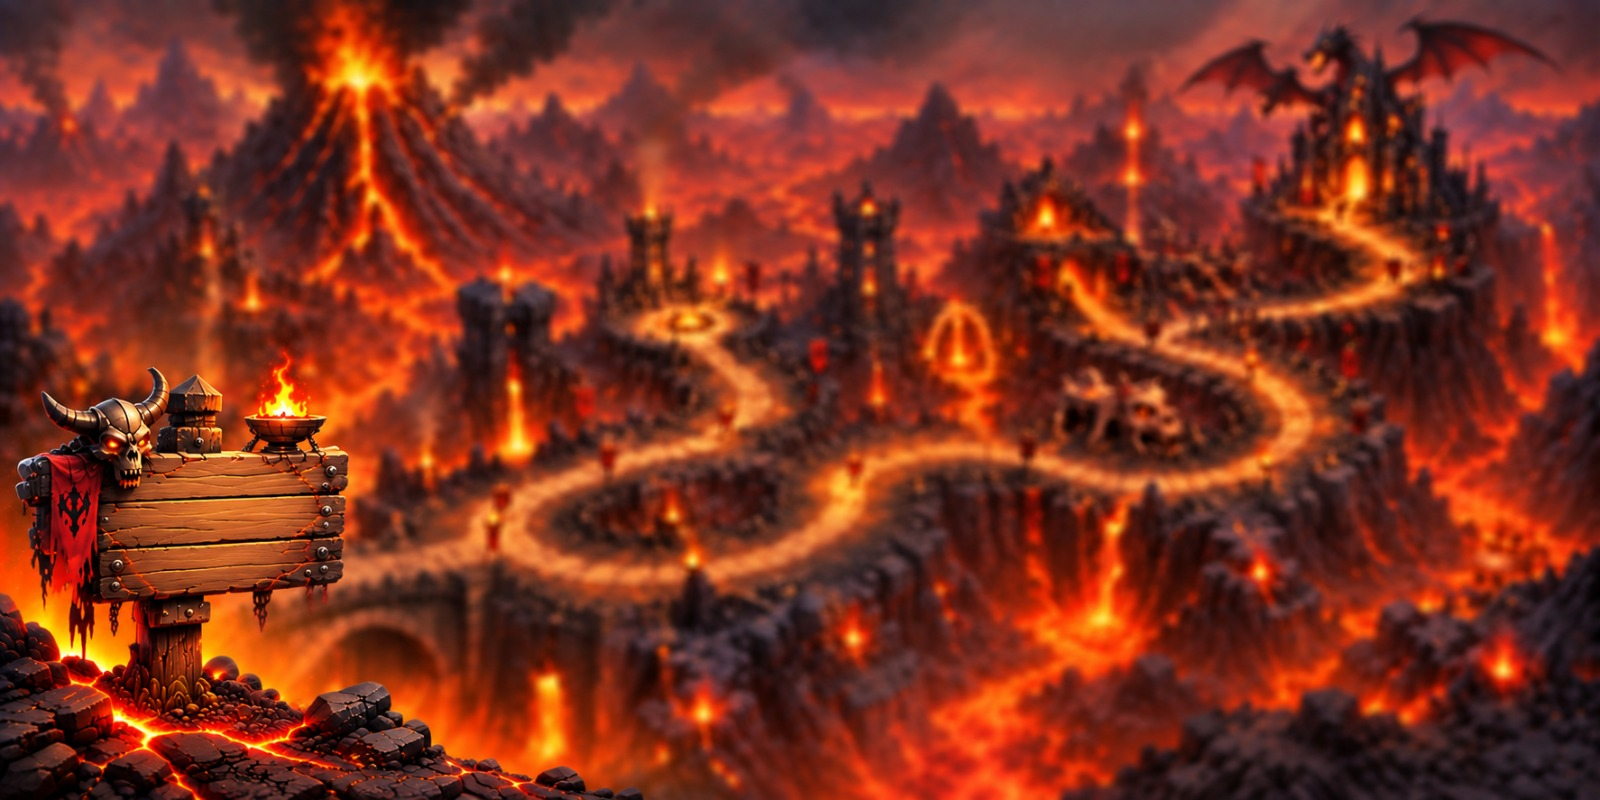
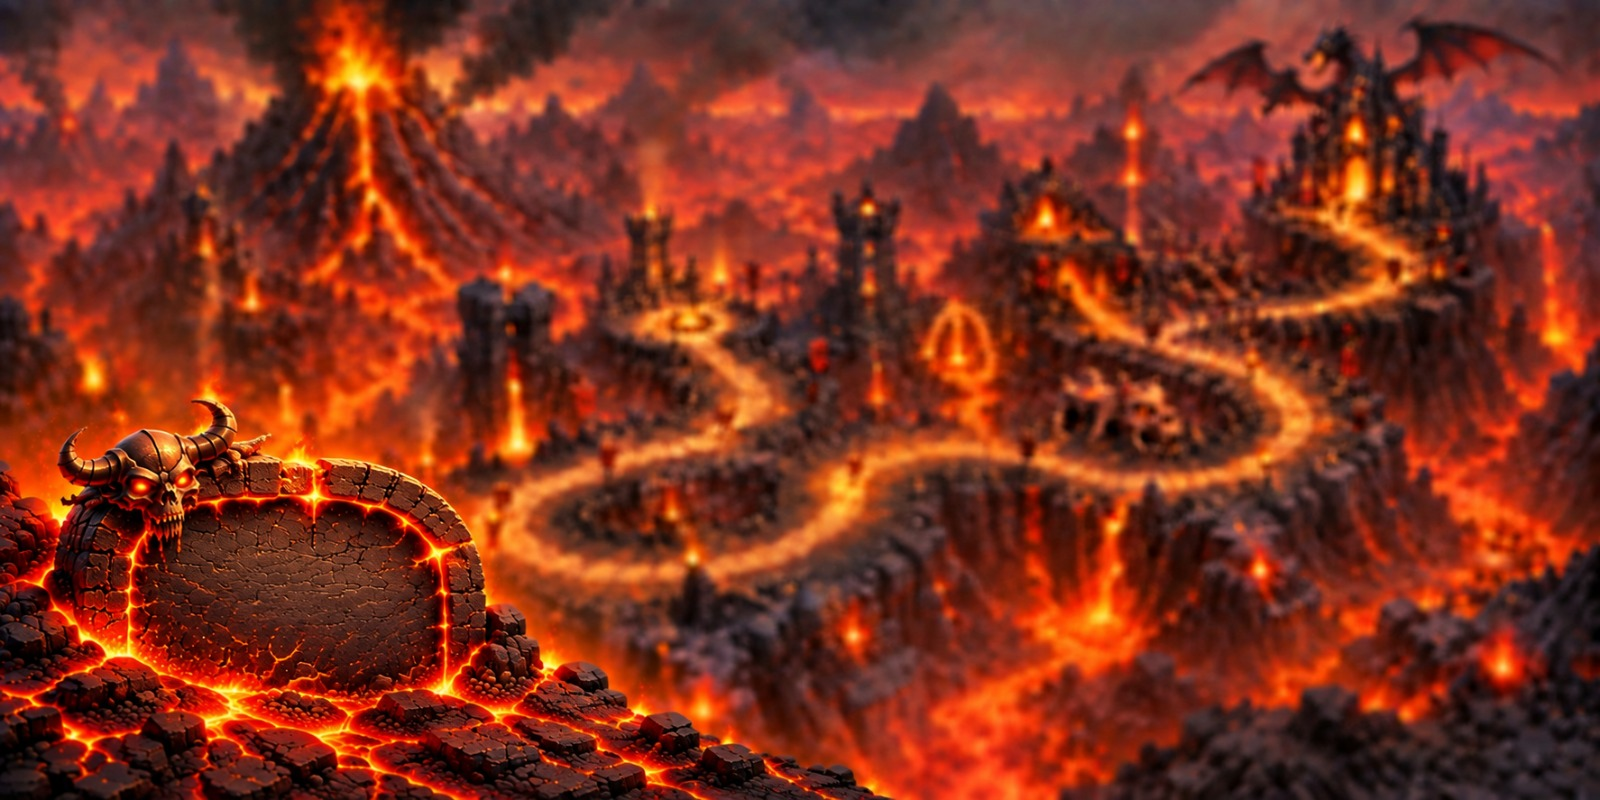
update the design

diff --git a/src/runtime/backdrop/SceneBackdrop.css b/src/runtime/backdrop/SceneBackdrop.css
@@ -173,11 +173,17 @@
     0px -1px 0px rgba(0, 0, 0, 0.2);
 }
 
-/* ❄ Specific alignment override strictly for Winter Season wooden sign ❄ */
+/* ❄ Specific alignment override for Winter Season ❄ */
+.runtime-shell[data-season-name="Winter Season"] .scene-backdrop-content {
+  margin-left: calc(50% - 370px) !important;
+  margin-right: auto !important;
+}
+
 .runtime-shell[data-season-name="Winter Season"] .screen-progress-widget {
-  left: clamp(48px, 6.2vw, 85px);
-  bottom: clamp(205px, 26vh, 245px);
+  left: clamp(40px, 5.2vw, 75px) !important;
+  bottom: clamp(210px, 26.5vh, 250px) !important;
   gap: 4px;
+  z-index: 150 !important;
 }
 
 .runtime-shell[data-season-name="Winter Season"] .screen-progress-board-top {
@@ -212,10 +218,16 @@
 }
 
 /* 🌸 Specific alignment override for Spring Season 🌸 */
+.runtime-shell[data-season-name="Spring Season"] .scene-backdrop-content {
+  margin-left: calc(50% - 375px) !important;
+  margin-right: auto !important;
+}
+
 .runtime-shell[data-season-name="Spring Season"] .screen-progress-widget {
-  left: clamp(42px, 5.5vw, 75px);
-  bottom: clamp(170px, 21.5vh, 198px);
+  left: clamp(35px, 4.5vw, 68px) !important;
+  bottom: clamp(175px, 22vh, 205px) !important;
   gap: 2px;
+  z-index: 150 !important;
 }
 
 .runtime-shell[data-season-name="Spring Season"] .screen-progress-board-top {
@@ -250,10 +262,16 @@
 }
 
 /* 🏜 Specific alignment override for Desert Season 🏜 */
+.runtime-shell[data-season-name="Desert Season"] .scene-backdrop-content {
+  margin-left: calc(50% - 365px) !important;
+  margin-right: auto !important;
+}
+
 .runtime-shell[data-season-name="Desert Season"] .screen-progress-widget {
-  left: clamp(48px, 6.2vw, 85px);
-  bottom: clamp(160px, 20vh, 185px);
+  left: clamp(35px, 4.5vw, 68px) !important;
+  bottom: clamp(165px, 21vh, 195px) !important;
   gap: 2px;
+  z-index: 150 !important;
 }
 
 .runtime-shell[data-season-name="Desert Season"] .screen-progress-board-top {
@@ -287,11 +305,68 @@
      0px 2px 4px rgba(0, 0, 0, 0.3);
 }
 
-/* 🌊 Specific alignment override for Marine Season 🌊 */
-.runtime-shell[data-season-name="Marine Season"] .screen-progress-widget {
-  left: clamp(45px, 5.8vw, 78px);
-  bottom: clamp(165px, 20.5vh, 190px);
+/* 🌋 Specific alignment override for Lava Season 🌋 */
+.runtime-shell[data-season-name="Lava Season"] .scene-backdrop-content {
+  margin-left: calc(50% - 370px) !important;
+  margin-right: auto !important;
+}
+
+.runtime-shell[data-season-name="Lava Season"] .screen-progress-widget {
+  left: clamp(40px, 5.0vw, 75px) !important;
+  bottom: clamp(170px, 22vh, 205px) !important;
   gap: 2px;
+  z-index: 150 !important;
+}
+
+.runtime-shell[data-season-name="Lava Season"] .screen-progress-board-top {
+  height: 22px;
+}
+
+.runtime-shell[data-season-name="Lava Season"] .screen-progress-board-bottom {
+  height: 24px;
+  margin-top: 0;
+}
+
+.runtime-shell[data-season-name="Lava Season"] .screen-progress-board-top .screen-label {
+  font-size: 16px;
+  color: #fff !important;
+  text-shadow: 
+    -1px -1px 0 #000,  
+     1px -1px 0 #000,
+    -1px  1px 0 #000,
+     1px  1px 0 #000;
+}
+
+.runtime-shell[data-season-name="Lava Season"] .screen-progress-board-bottom .screen-count {
+  font-size: 20px;
+  color: #fff !important;
+  text-shadow: 
+    -1px -1px 0 #000,  
+     1px -1px 0 #000,
+    -1px  1px 0 #000,
+     1px  1px 0 #000;
+}
+
+/* 🌊 Specific alignment override for Marine Season 🌊 */
+.runtime-shell[data-season-name="Marine Season"] .scene-content-area {
+  padding: 1.5rem 1.5rem 6.5rem 1.5rem !important;
+  display: flex !important;
+  justify-content: center !important;
+  align-items: center !important;
+}
+
+.runtime-shell[data-season-name="Marine Season"] .scene-backdrop-content {
+  width: 100% !important;
+  max-width: 840px !important;
+  margin-left: auto !important;
+  margin-right: auto !important;
+}
+
+.runtime-shell[data-season-name="Marine Season"] .screen-progress-widget {
+  left: clamp(35px, 4.5vw, 65px) !important;
+  bottom: clamp(190px, 24vh, 230px) !important;
+  gap: 2px;
+  z-index: 150 !important;
 }
 
 .runtime-shell[data-season-name="Marine Season"] .screen-progress-board-top {

diff --git a/src/runtime/rendering/blocks/reading/ImageBlock.jsx b/src/runtime/rendering/blocks/reading/ImageBlock.jsx
@@ -1,9 +1,21 @@
+import { useState, useEffect } from "react";
 import BlockCard from "../../../ui/components/BlockCard";
 import BlockHeader from "../../../ui/components/BlockHeader";
+import { resolveMediaUrl } from "../../services/MediaResolver";
+import defaultImageFallback from "../../../../assets/images/reading_boy_magnifying.png";
 
 function ImageBlock({ block }) {
-    const { url, caption } = block.content;
-    const jsonStyles = block.styles || {};
+    const content = block?.content || {};
+    const { caption } = content;
+    const jsonStyles = block?.styles || {};
+
+    const resolvedUrl = resolveMediaUrl(content);
+    const [imgSrc, setImgSrc] = useState(resolvedUrl || defaultImageFallback);
+
+    useEffect(() => {
+        const url = resolveMediaUrl(block?.content);
+        setImgSrc(url || defaultImageFallback);
+    }, [block]);
 
     const cardStyle = {
         width: "100%",
@@ -19,15 +31,20 @@ function ImageBlock({ block }) {
                 type="image"
                 title="Image"
             />
-            <div className="elab-media-card-content" style={{ display: "flex", flexDirection: "column", alignItems: "center", width: "100%", overflow: "hidden" }}>
+            <div className="elab-media-card-content" style={{ display: "flex", flexDirection: "column", alignItems: "center", width: "100%", padding: "12px 16px 20px", overflow: "hidden" }}>
                 <img
-                    src={url || null}
-                    alt={caption || "Content Image"}
+                    src={imgSrc}
+                    alt={caption || "Lesson Content Image"}
+                    onError={() => {
+                        if (imgSrc !== defaultImageFallback) {
+                            setImgSrc(defaultImageFallback);
+                        }
+                    }}
                     className="elab-media-card-element"
-                    style={{ width: "100%", maxWidth: "100%", height: "auto", borderRadius: "12px", objectFit: "contain" }}
+                    style={{ width: "100%", maxWidth: "100%", maxHeight: "320px", borderRadius: "12px", objectFit: "contain", display: "block" }}
                 />
                 {caption && (
-                    <p className="elab-media-card-caption">{caption}</p>
+                    <p className="elab-media-card-caption" style={{ marginTop: "12px", marginBottom: "6px", textAlign: "center", fontWeight: "700" }}>{caption}</p>
                 )}
             </div>
         </BlockCard>

diff --git a/src/runtime/rendering/services/MediaResolver.js b/src/runtime/rendering/services/MediaResolver.js
@@ -1,0 +1,64 @@
+/**
+ * MediaResolver.js
+ * Utility to resolve relative or absolute media URLs from JSON block content or strings.
+ * Handles paths starting with /media/ by prefixing the Django backend URL (default http://localhost:8000).
+ * Preserves frontend local asset imports (e.g. /src/runtime/samples/...) without prepending backend URL.
+ */
+
+const BACKEND_URL = (typeof import.meta !== "undefined" && import.meta.env && import.meta.env.VITE_API_URL)
+    || "http://localhost:8000";
+
+export function resolveMediaUrl(contentOrUrl) {
+    if (!contentOrUrl) return null;
+
+    let rawUrl = "";
+    if (typeof contentOrUrl === "string") {
+        rawUrl = contentOrUrl;
+    } else if (typeof contentOrUrl === "object") {
+        rawUrl = contentOrUrl.url ||
+                 contentOrUrl.image ||
+                 contentOrUrl.media_url ||
+                 contentOrUrl.mediaUrl ||
+                 contentOrUrl.src ||
+                 contentOrUrl.video ||
+                 contentOrUrl.audio ||
+                 contentOrUrl.documentImage ||
+                 contentOrUrl.documentUrl ||
+                 "";
+    }
+
+    if (!rawUrl || typeof rawUrl !== "string" || !rawUrl.trim()) {
+        return null;
+    }
+
+    const cleanUrl = rawUrl.trim();
+
+    if (
+        cleanUrl.startsWith("http://") ||
+        cleanUrl.startsWith("https://") ||
+        cleanUrl.startsWith("data:") ||
+        cleanUrl.startsWith("blob:")
+    ) {
+        return cleanUrl;
+    }
+
+    if (
+        cleanUrl.startsWith("/src/") ||
+        cleanUrl.startsWith("src/") ||
+        cleanUrl.startsWith("/@fs/") ||
+        cleanUrl.startsWith("/@vite/") ||
+        cleanUrl.startsWith("/assets/") ||
+        cleanUrl.startsWith("assets/")
+    ) {
+        return cleanUrl.startsWith("/") ? cleanUrl : `/${cleanUrl}`;
+    }
+
+    if (cleanUrl.startsWith("/media/") || cleanUrl.startsWith("media/")) {
+        const path = cleanUrl.startsWith("/") ? cleanUrl : `/${cleanUrl}`;
+        return `${BACKEND_URL}${path}`;
+    }
+
+    return cleanUrl;
+}
+
+export default resolveMediaUrl;

diff --git a/src/runtime/ui/index.css b/src/runtime/ui/index.css
@@ -3404,9 +3404,34 @@ ol {
     padding: 6.5rem 5.5rem 6.5rem 5.5rem !important;
 }
 
-/* 🌊 Marine Season Card Frame Padding 🌊 */
+/* 🌊 Marine Season Card Frame Padding & Inner Bounds 🌊 */
 .runtime-shell[data-season-name="Marine Season"] .elab-block-card {
-    padding: 5.8rem 5.0rem 5.8rem 5.0rem !important;
+    padding: 5.8rem 5.5rem 5.8rem 5.5rem !important;
+    width: 100% !important;
+    max-width: 840px !important;
+    margin: 0 auto !important;
+    box-sizing: border-box !important;
+}
+
+.runtime-shell[data-season-name="Marine Season"] .elab-custom-subtitle,
+.runtime-shell[data-season-name="Marine Season"] .elab-subtitle-row,
+.runtime-shell[data-season-name="Marine Season"] .elab-block-subtitle,
+.runtime-shell[data-season-name="Marine Season"] .elab-block-card div[style*="color: #c0392b"],
+.runtime-shell[data-season-name="Marine Season"] .elab-block-card div[style*="color: #78350f"],
+.runtime-shell[data-season-name="Marine Season"] .elab-block-card div[style*="color: rgb(120, 53, 15)"],
+.runtime-shell[data-season-name="Marine Season"] .elab-block-card div[style*="color: rgb(192, 57, 43)"] {
+    color: #ffffff !important;
+    text-shadow: 0 1px 3px rgba(0, 0, 0, 0.9), 0 2px 6px rgba(0, 0, 0, 0.7) !important;
+}
+
+.runtime-shell[data-season-name="Marine Season"] .elab-block-two-column {
+    align-items: center !important;
+    gap: 1.2rem !important;
+}
+
+.runtime-shell[data-season-name="Marine Season"] .elab-reading-illustration-container,
+.runtime-shell[data-season-name="Marine Season"] .elab-dictation-illustration-container {
+    max-width: 190px !important;
 }
 
 .elab-media-card-content,

diff --git a/src/runtime/rendering/blocks/listening/DictationBlock.jsx b/src/runtime/rendering/blocks/listening/DictationBlock.jsx
@@ -1,12 +1,14 @@
 import { useRef, useState } from "react";
 import BlockCard from "../../../ui/components/BlockCard";
 import { useScreenCompletion } from "../../../screen/ScreenCompletionContext";
+import { resolveMediaUrl } from "../../services/MediaResolver";
 
 import dictationMicUrl from "../../../../assets/images/dictation_mic.png";
 import dictationPlayPurpleUrl from "../../../../assets/images/dictation_play_purple.png";
 
 function DictationBlock({ block }) {
-    const { url, question } = block.content;
+    const { question } = block?.content || {};
+    const resolvedUrl = resolveMediaUrl(block?.content);
     const audioRef = useRef(null);
 
     const [isPlaying, setIsPlaying] = useState(false);
@@ -86,7 +88,7 @@ function DictationBlock({ block }) {
 
             <audio
                 ref={audioRef}
-                src={url}
+                src={resolvedUrl}
                 onEnded={() => setIsPlaying(false)}
                 onError={() => setPlaybackError(true)}
                 style={{ display: "none" }}

diff --git a/src/runtime/rendering/blocks/listening/VideoBlock.jsx b/src/runtime/rendering/blocks/listening/VideoBlock.jsx
@@ -2,6 +2,7 @@ import { useCallback, useContext, useEffect, useRef, useState } from "react";
 import BlockCard from "../../../ui/components/BlockCard";
 import BlockHeader from "../../../ui/components/BlockHeader";
 import { ScreenCompletionContext } from "../../../screen/ScreenCompletionContext";
+import { resolveMediaUrl } from "../../services/MediaResolver";
 
 function VideoBlock({ block }) {
     const { reportAnswered } = useContext(ScreenCompletionContext) || {};
@@ -122,7 +123,7 @@ function VideoBlock({ block }) {
                     controls
                     controlsList="nodownload noremoteplayback noplaybackrate"
                     disablePictureInPicture
-                    src={block.content.url || null}
+                    src={resolveMediaUrl(block.content) || null}
                     onPlay={handlePlay}
                     onPause={handlePause}
                     onTimeUpdate={handleTimeUpdate}

diff --git a/src/runtime/rendering/blocks/listening/AudioBlock.jsx b/src/runtime/rendering/blocks/listening/AudioBlock.jsx
@@ -1,5 +1,6 @@
 import { useRef, useState } from "react";
 import BlockCard from "../../../ui/components/BlockCard";
+import { resolveMediaUrl } from "../../services/MediaResolver";
 
 // Import cutouts
 import badgeAudioUrl from "../../../../assets/images/badge_audio.png";
@@ -131,7 +132,7 @@ function AudioBlock({ block }) {
 
             <audio
                 ref={audioRef}
-                src={block.content.url || null}
+                src={resolveMediaUrl(block.content) || null}
                 onTimeUpdate={e => setCurrentTime(e.target.currentTime)}
                 onLoadedMetadata={e => setDuration(e.target.duration)}
                 onEnded={() => setIsPlaying(false)}
